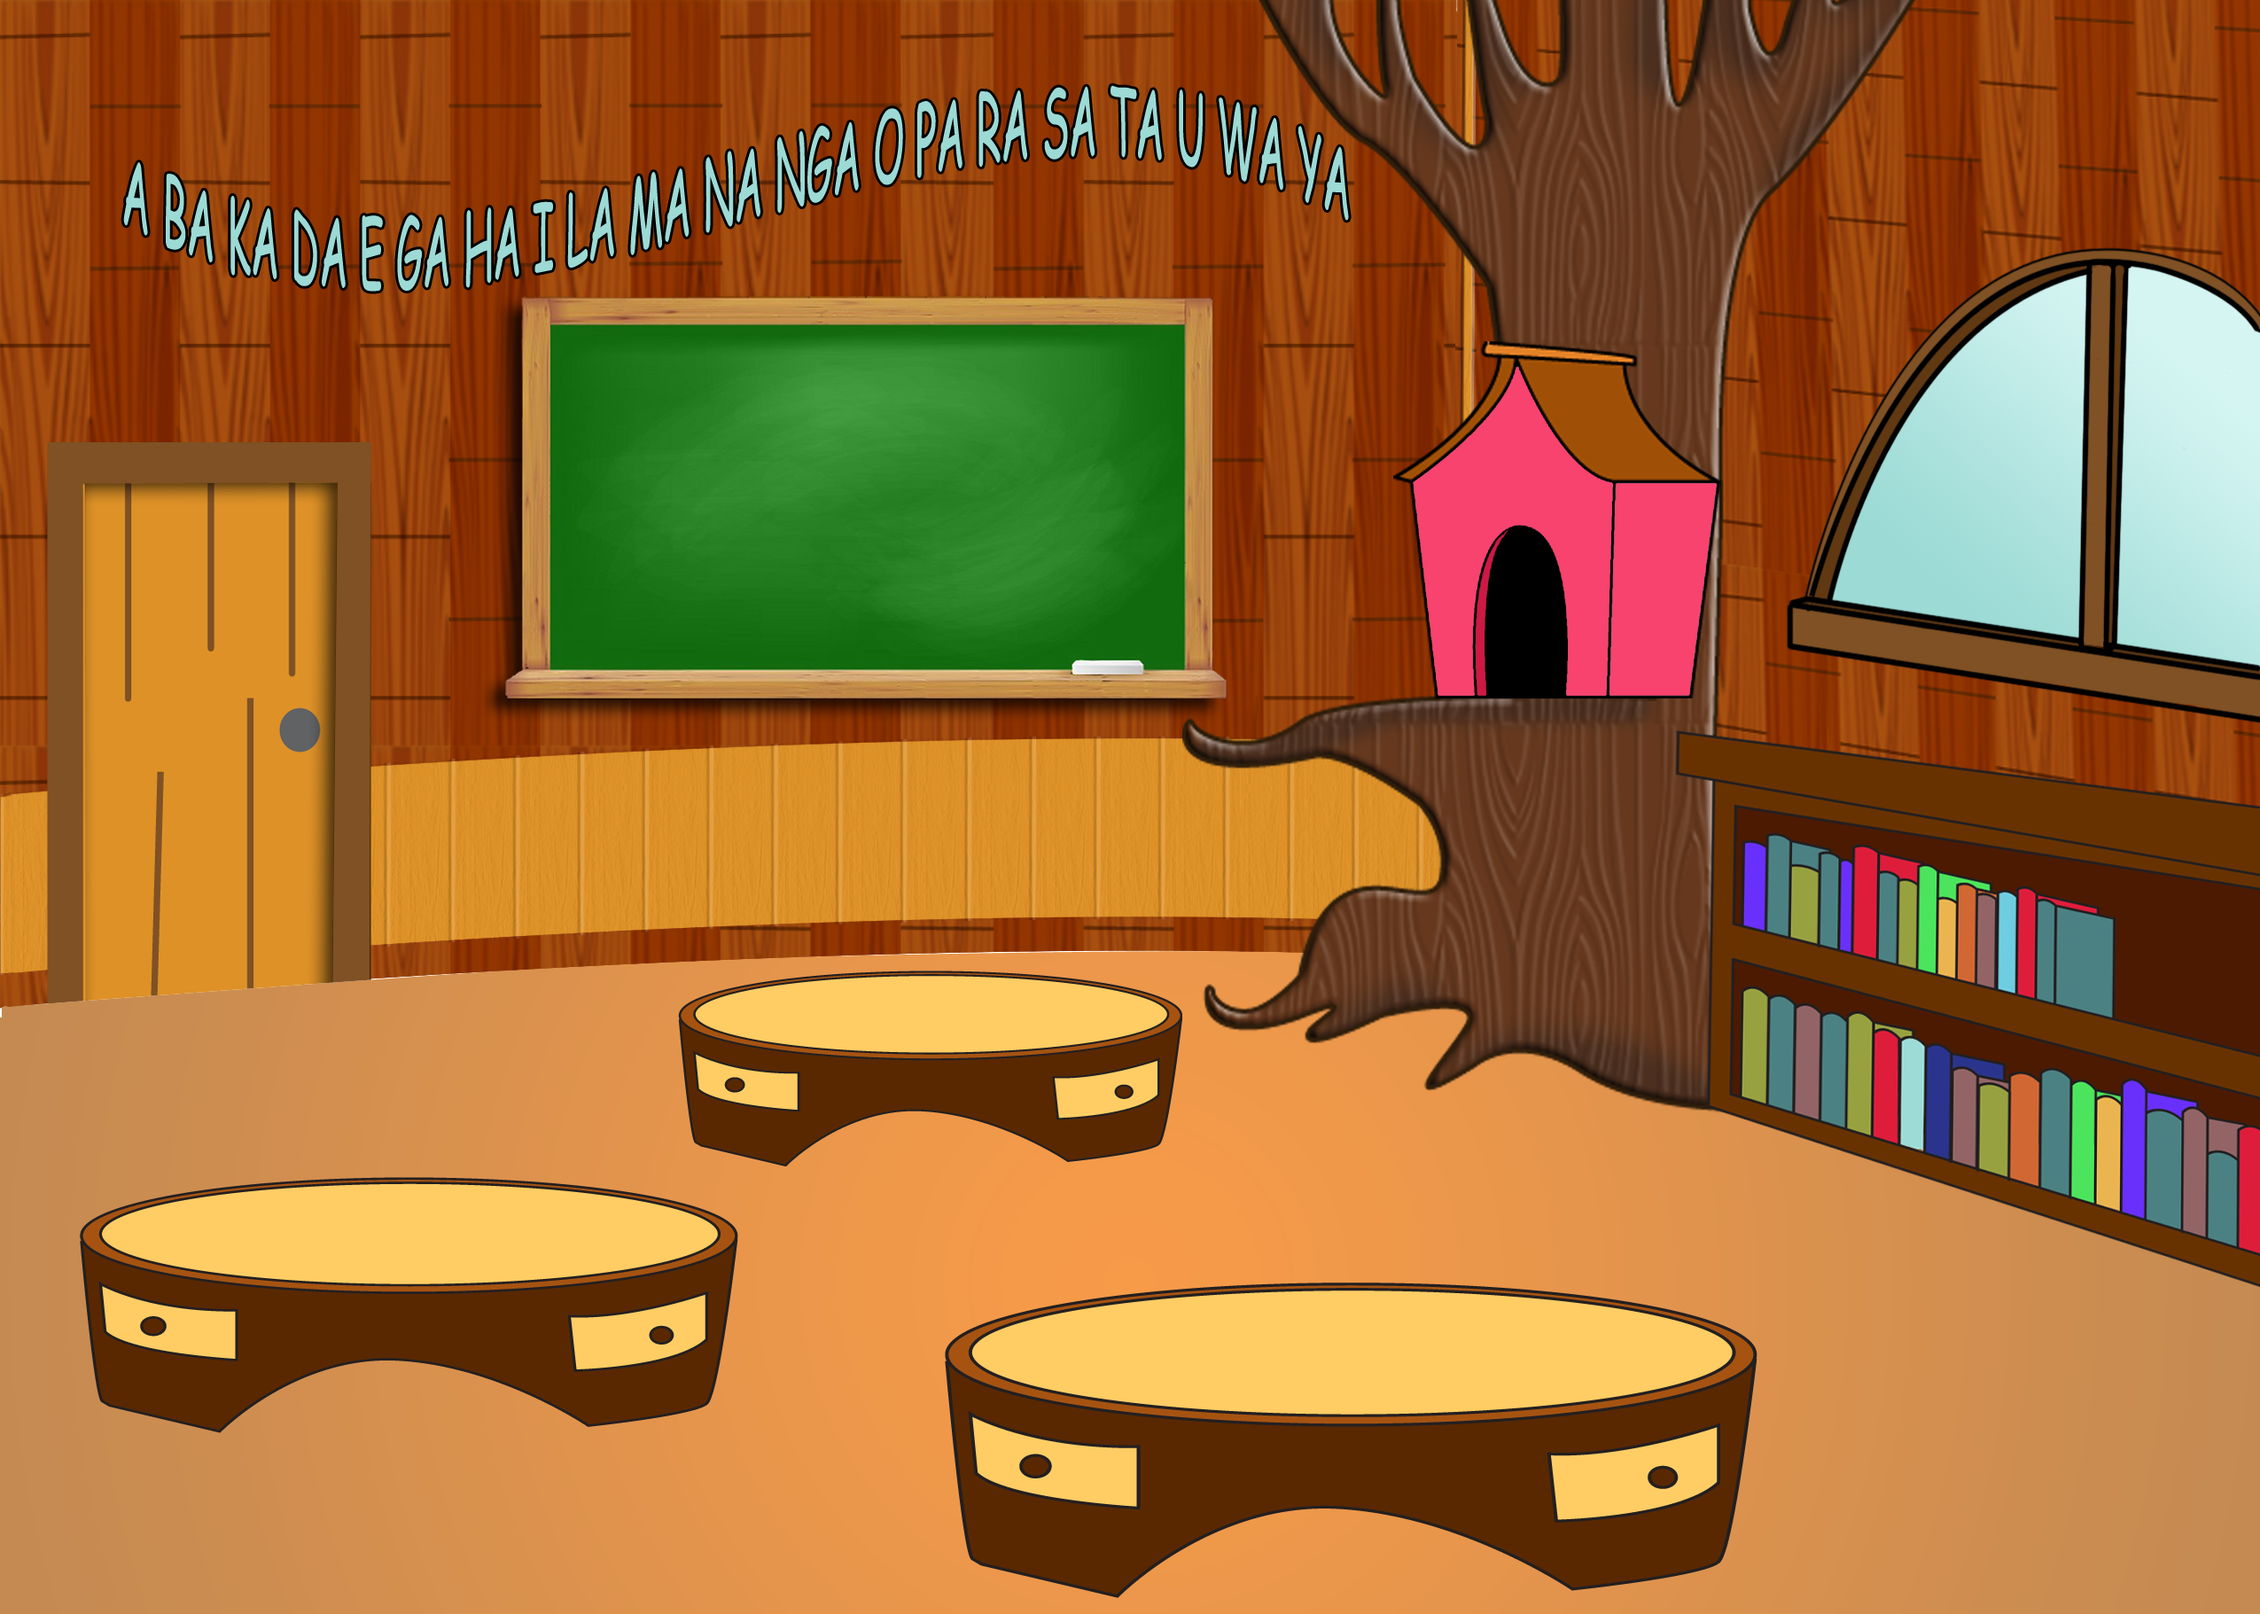
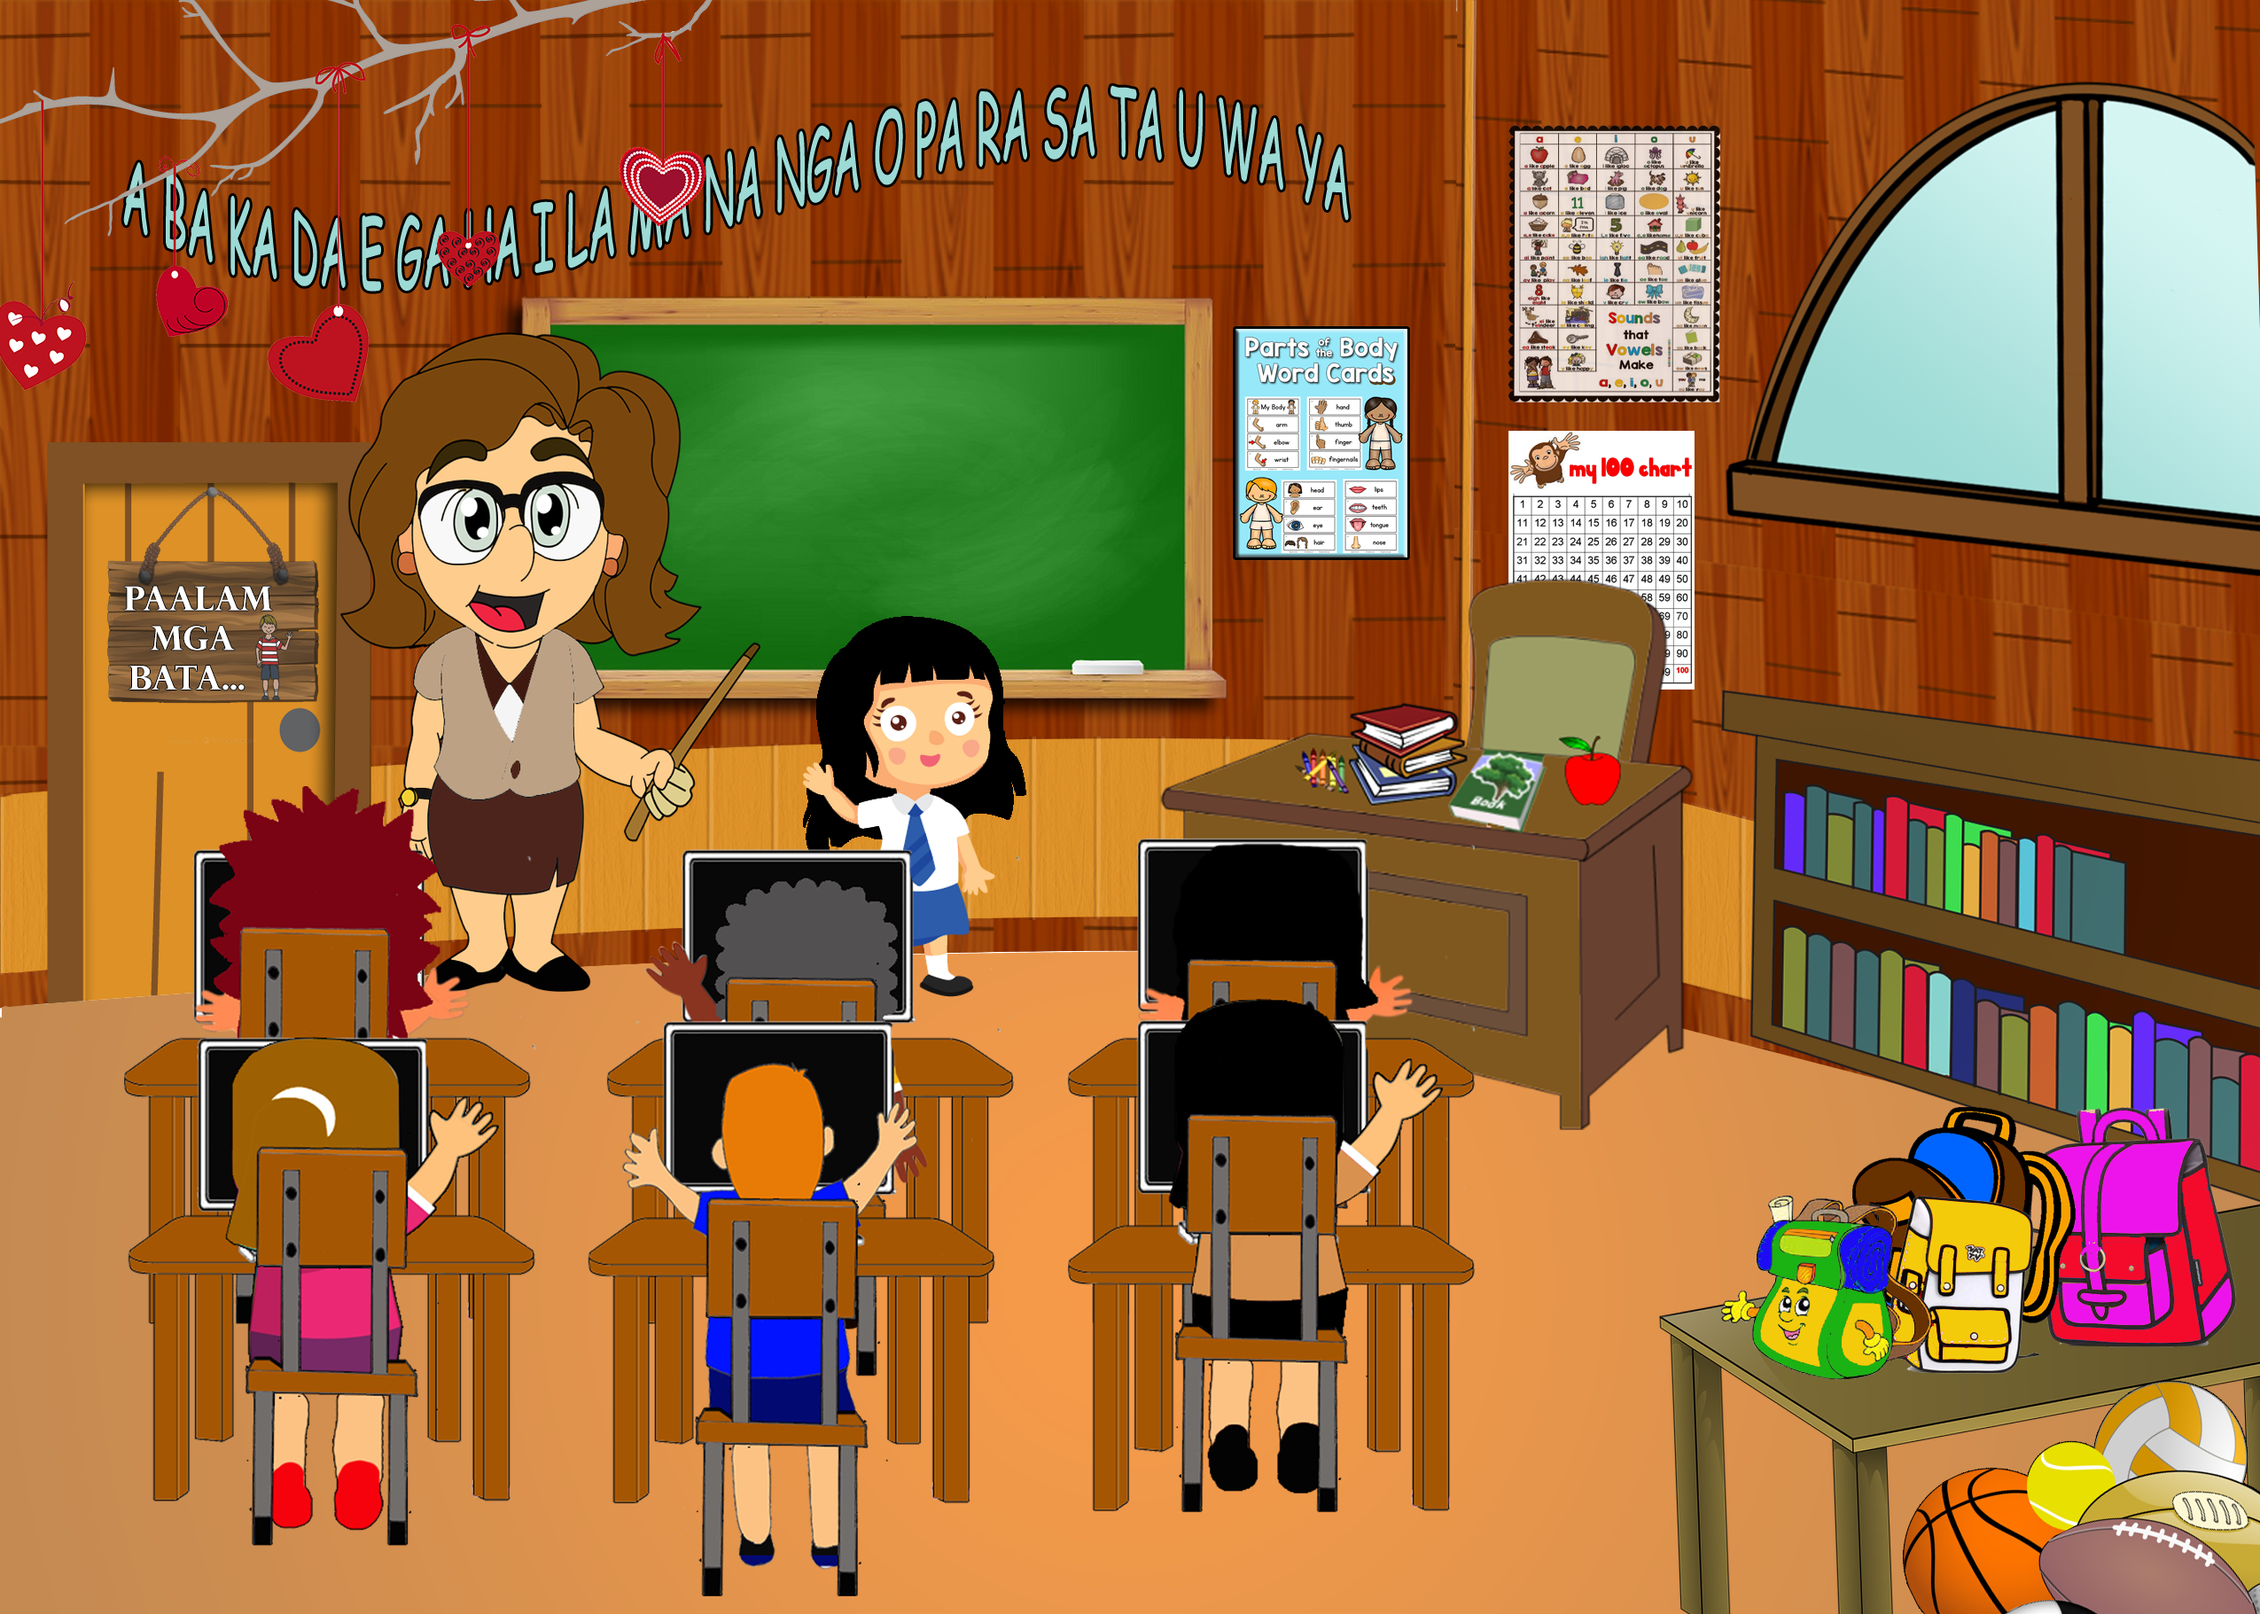
design

diff --git a/public/style.css b/public/style.css
@@ -304,15 +304,21 @@ section {
 }
 
 .blackboard  .blackboardsmall {
-        width: 457px;
+    width: 457px;
     height: 214px;
     cursor: pointer;
+    opacity: 0;
 }
 
 .blackboard .blackboardbig {
-    width : 1200px;
+    /* width : 1200px;
     height : 680px;
+    display: none; */
+    width: 1200px;
+    height: 835px;
     display: none;
+    top: -57px;
+    position: relative;
 }
 
 .pagsusulit {
@@ -625,4 +631,12 @@ section {
 {
     position: absolute; 
     left: -1000px;
+}
+
+#hahahidenananatin
+{
+    position: absolute;
+    left: -100000px;
+    width: 10px;
+    height: 10px;
 }

diff --git a/public/paaralan.php b/public/paaralan.php
@@ -164,10 +164,14 @@
                 </div>
         </section>
         <audio src="student_assets/plop.wav" id="sound"></audio>
+        <img src="student_assets/room2-overlay.png" alt="" id="hahahidenananatin">
     </body>
-
+    
     </html>
     <script>
+        var initBg = "student_assets/room2.png";
+        var hoverBG = "student_assets/room2-overlay.png";
+
         var showBoard = false;
         var lesson = 0;
         var ie = 0;
@@ -197,6 +201,13 @@
                 $('.item' + (lesson + 1)).show();
             }
         });
+
+        $('.blackboardsmall').mouseover(function(){
+            $('.school .content .room img').attr("src",hoverBG);
+        }).mouseout(function(){
+            $('.school .content .room img').attr("src",initBg);
+        });
+
         $('.exit').on('click', function () {
             document.getElementById('sound').play();
             $('.lesson_content').hide();
